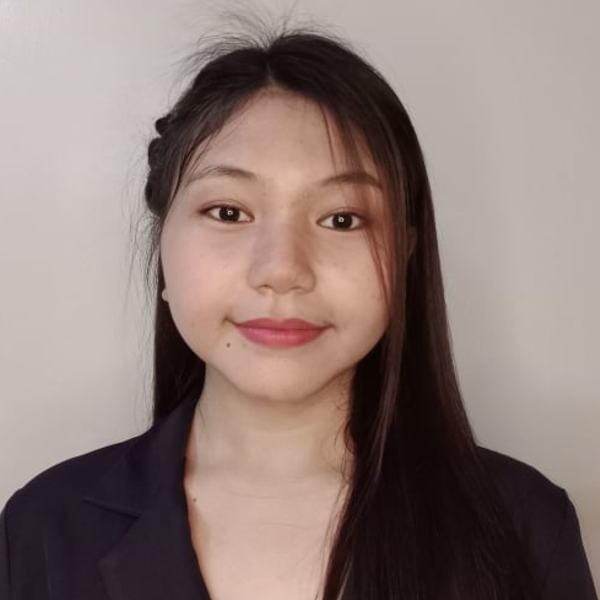
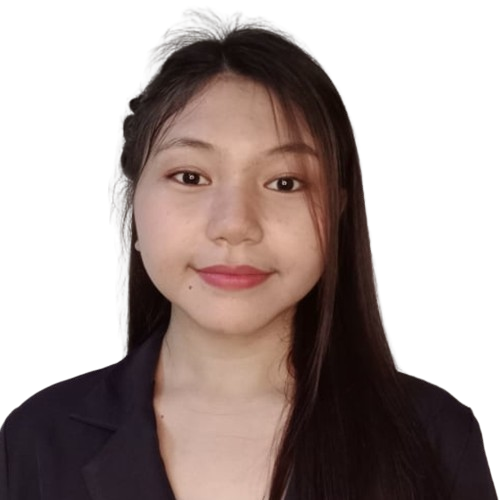
about us update
May 2 3:25

diff --git a/PractiProAngular/src/app/components/aboutus/aboutus.component.html b/PractiProAngular/src/app/components/aboutus/aboutus.component.html
@@ -1,29 +1,33 @@
 <app-navbar></app-navbar>
-<div class="p-2 sm:ml-56 bg-slate-900 text-white">
+<div class="p-2 sm:ml-56 bg-white text-sky-950">
   <div class="p-1 xl:p-10">
     <div>
       <h1
-        class="text-orange-600 ml-5 font-bold text-lg mb-1 flex justify-center"
+        class="text-orange-500 mt-4 font-bold text-lg mb-1 flex justify-center"
       >
         About Us
       </h1>
-      <div class="border-b w-auto ml-20 mr-20 border-gray-300"></div>
+      <div class="border-b-2 mt-5 w-auto ml-20 mr-20 border-gray-300"></div>
       <br />
     </div>
 
+    <div class="text-orange-600 font-bold text-lg mb-1 flex justify-center">
+      
+  </div>
+  
     <div class="text-center text-white flex justify-center">
       <img
-        class="h-auto w-36"
+        class="h-auto w-36 mt-1"
         src="../../../assets/logo.png"
         alt="Logo Image"
       />
     </div>
-    <div class="text-center text-white">
-      <h1 class="text-semibold">
-        Practi<a class="text-orange-700 font-bold">Pro</a>
+    <div class="text-center text-sky-950">
+      <h1 class="font-semibold border-black-300 troke-slate-700 ">
+        Practi<a class="text-orange-500 font-semibold">Pro</a>
       </h1>
-      <p class="mt-2 text-semibold">Meet the team</p>
-      <p class="ml-10 mr-8 text-xs">
+      <p class="mt-8 font-semibold text-sky-950">Meet the Team</p>
+      <p class="py-1 px-20 mb-1 me-2 text-lg justify-center text-sky-950">
         Welcome to PractiPro's Student Practicum Program! We're excited to
         introduce to you our dedicated team members who are commited to
         providing you with a rich and fulfilling learning experience. Let's meet
@@ -33,15 +37,15 @@
     </div>
     <div class="text-center text-white flex justify-center">
       <img
-        class="h-auto w-48 rounded-full"
+        class="h-auto w-48 rounded-full mt-11"
         src="../../../assets/denz.png"
         alt="Denzel Manz Perez"
       />
     </div>
-    <div class="text-center text-white">
-      <p class="font-bold">Project Manager</p>
+    <div class="text-center text-sky-950 mt-5">
+      <p class="font-semibold">Project Manager</p>
       <p>Denzel Manz Perez</p>
-      <p class="mt-5 text-lg font-bold">(Wireframe Designer)</p>
+      <p class="mt-5 text-lg font-semibold text-sky-950">(Wireframe Designer)</p>
       <br />
     </div>
     <div class="grid grid-cols-3">
@@ -55,7 +59,7 @@
       <div class="flex justify-center">
         <img
           class="rounded-full h-auto w-32"
-          src="../../../assets/dei.jpg"
+          src="../../../assets/dei.png"
           alt="Deianne Jeinne Resurreccion"
         />
       </div>
@@ -83,19 +87,19 @@
     </div>
     <br />
     <br />
-    <div class="text-lg font-bold text-center">
+    <div class="text-lg font-semibold text-center">
       <p>(Frontend Team Tasks)</p>
       <br />
     </div>
     <div class="flex justify-center">
       <img
         class="h-40 w-auto rounded-full"
-        src="../../../assets/denz.png"
+        src="../../../assets/shwn.png"
         alt="Shawn Tyrone Rada"
       />
     </div>
     <div class="text-center">
-      <p class="font-bold">Lead Frontend</p>
+      <p class="font-semibold mt-4">Lead Frontend</p>
       <p>Shawn Tyrone Rada</p>
       <br />
     </div>
@@ -131,7 +135,7 @@
       <div class="flex justify-center">
         <img
           class="rounded-full h-20 w-auto"
-          src="../../../assets/dei.jpg"
+          src="../../../assets/dei.png"
           alt=""
         />
       </div>
@@ -164,7 +168,7 @@
       <div class="flex justify-center">
         <img
           class="rounded-full h-24 w-auto"
-          src="../../../assets/dei.jpg"
+          src="../../../assets/nicholas.png"
           alt=""
         />
       </div>
@@ -178,14 +182,14 @@
       <div class="flex justify-center">
         <img
           class="rounded-full h-24 w-auto"
-          src="../../../assets/chard.jpg"
+          src="../../../assets/chard.png"
           alt=""
         />
       </div>
       <div class="flex justify-center">
         <img
           class="rounded-full h-24 w-auto"
-          src="../../../assets/dei.jpg"
+          src="../../../assets/jadev.png"
           alt=""
         />
       </div>
@@ -210,7 +214,7 @@
     </div>
     <br />
     <br />
-    <div class="text-xl font-bold text-center">
+    <div class="text-xl font-semibold text-center">
       <p>(Backend Team Tasks)</p>
     </div>
     <br />
@@ -223,7 +227,7 @@
         <img class="rounded-full h-40" src="../../../assets/rj.jpg" alt="" />
       </div>
       <div class="flex justify-center">
-        <img class="rounded-full h-40" src="../../../assets/denz.png" alt="" />
+        <img class="rounded-full h-40" src="../../../assets/shwn.png" alt="" />
       </div>
     </div>
     <div class="grid grid-cols-3">

diff --git a/PractiProAngular/src/app/app.component.html b/PractiProAngular/src/app/app.component.html
@@ -1,4 +1,3 @@
-
-
-    
+<app-aboutus></app-aboutus>
+<app-feedback></app-feedback>
 <router-outlet />
